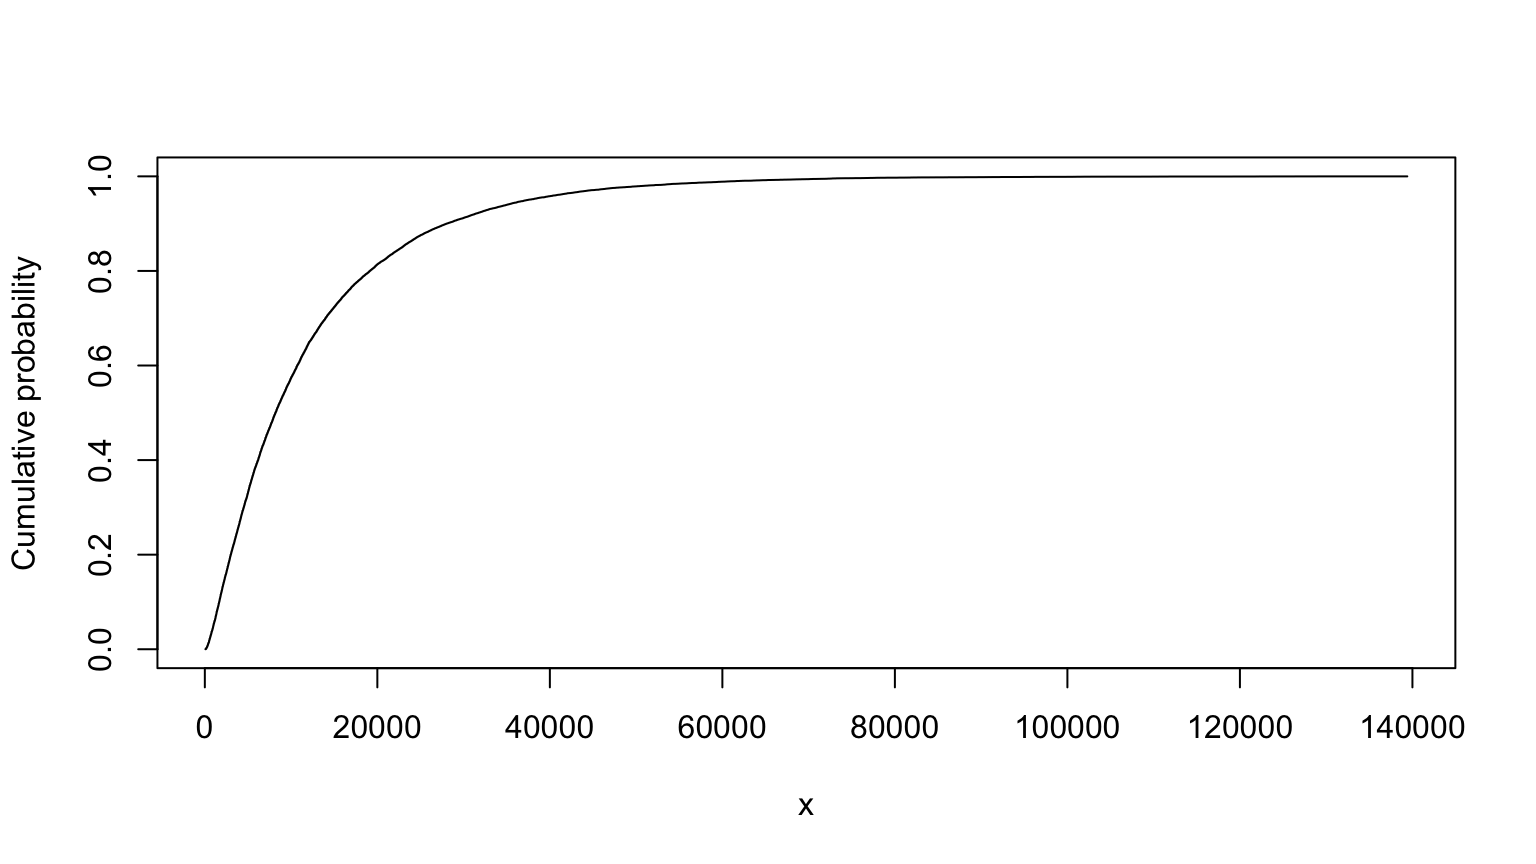
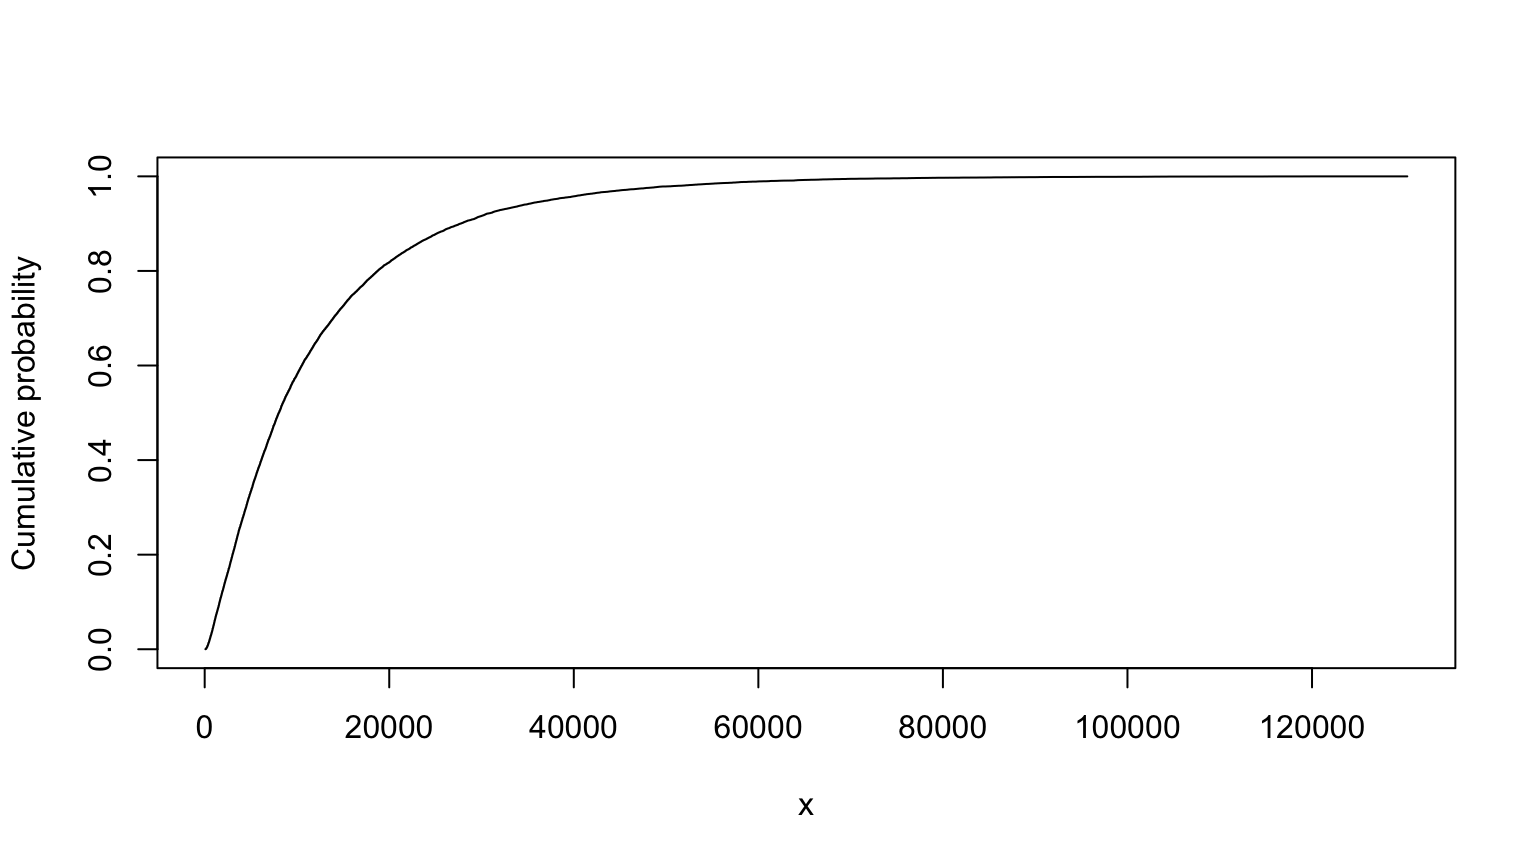
build_analysis_site() for release 1.0.11

diff --git a/docs/workshop.html b/docs/workshop.html
@@ -434,25 +434,25 @@ T &lt;- (n + BD * foc * Koc) * L / (K * i) # all variables assumed independent
 summary(T)</code></pre>
 <pre><code>## 
 ## Monte Carlo distribution summary
-##   Mean: 12992.28
-##   Variance: 268554684
-##   Std Deviation: 16387.64
-##   Width of interquartile range: 12578.9
-##   Width of overall range: 437572.4
+##   Mean: 12856.08
+##   Variance: 224938613
+##   Std Deviation: 14997.95
+##   Width of interquartile range: 12847.06
+##   Width of overall range: 243404.6
 ##   Order statistics
-##      Left (min) value: -1103.394
-##      1st percentile: 353.9357
-##      5th percentile: 946.8937
-##      25th percentile: 3637.04
-##      Median (50th%ile): 8076.956
-##      75th percentile: 16215.94
-##      95th percentile: 41413.62
-##      99th percentile: 76321.25
-##      Right (max) value: 436469
+##      Left (min) value: -0.9075293
+##      1st percentile: 333.434
+##      5th percentile: 929.1476
+##      25th percentile: 3668.287
+##      Median (50th%ile): 8087.811
+##      75th percentile: 16515.35
+##      95th percentile: 40016.31
+##      99th percentile: 72446.79
+##      Right (max) value: 243403.7
 ##   Replications: 20000</code></pre>
 <pre class="r"><code>T</code></pre>
 <p><img src="workshop_files/figure-html/T-1.png" width="768" /></p>
-<pre><code>## MC (min=-1103.39426011086, median=8076.95624377962, mean=12992.2810886096, max=436469.016547702)</code></pre>
+<pre><code>## MC (min=-0.90752931207862, median=8087.81078245944, mean=12856.0750485915, max=243403.730750865)</code></pre>
 <pre class="r"><code># nolint end</code></pre>
 <p>Truncated version, from slide 40:</p>
 <pre class="r"><code># nolint start
@@ -472,25 +472,25 @@ T &lt;- (n + BD * foc * Koc) * L / (K * i)
 summary(T)</code></pre>
 <pre><code>## 
 ## Monte Carlo distribution summary
-##   Mean: 12294.06
-##   Variance: 164528634
-##   Std Deviation: 12826.87
-##   Width of interquartile range: 12490.67
-##   Width of overall range: 139325.9
+##   Mean: 12164.79
+##   Variance: 162169908
+##   Std Deviation: 12734.59
+##   Width of interquartile range: 12359.34
+##   Width of overall range: 130234.8
 ##   Order statistics
-##      Left (min) value: 78.54209
-##      1st percentile: 374.6436
-##      5th percentile: 1005.389
-##      25th percentile: 3776.117
-##      Median (50th%ile): 8206.395
-##      75th percentile: 16266.79
-##      95th percentile: 37402.76
-##      99th percentile: 61618.05
-##      Right (max) value: 139404.4
+##      Left (min) value: 89.35449
+##      1st percentile: 377.3224
+##      5th percentile: 968.9486
+##      25th percentile: 3704.637
+##      Median (50th%ile): 8051.243
+##      75th percentile: 16063.97
+##      95th percentile: 37448.4
+##      99th percentile: 61220.33
+##      Right (max) value: 130324.2
 ##   Replications: 20000</code></pre>
 <pre class="r"><code>T</code></pre>
 <p><img src="workshop_files/figure-html/T_truncated-1.png" width="768" /></p>
-<pre><code>## MC (min=78.5420858433, median=8206.39467671615, mean=12294.0638114162, max=139404.402727442)</code></pre>
+<pre><code>## MC (min=89.3544908348222, median=8051.24325666704, mean=12164.7856200285, max=130324.16700688)</code></pre>
 <pre class="r"><code># nolint end</code></pre>
 <p>Maximum entropy version, from slide 70:</p>
 <p>T and Tind are pretty similar. In this case, the maximum entropy
@@ -509,25 +509,25 @@ Tind &lt;- (n + BD * foc * Koc) * L / (K * i)
 summary(Tind)</code></pre>
 <pre><code>## 
 ## Monte Carlo distribution summary
-##   Mean: 13879.56
-##   Variance: 227998536
-##   Std Deviation: 15099.62
-##   Width of interquartile range: 15118.18
-##   Width of overall range: 150650
+##   Mean: 14025.88
+##   Variance: 229087197
+##   Std Deviation: 15135.63
+##   Width of interquartile range: 15465.12
+##   Width of overall range: 132380.6
 ##   Order statistics
-##      Left (min) value: 75.9753
-##      1st percentile: 367.6406
-##      5th percentile: 994.2789
-##      25th percentile: 3677.792
-##      Median (50th%ile): 8415.554
-##      75th percentile: 18795.97
-##      95th percentile: 44861.31
-##      99th percentile: 70520.7
-##      Right (max) value: 150726
+##      Left (min) value: 86.44407
+##      1st percentile: 354.5949
+##      5th percentile: 979.9713
+##      25th percentile: 3693.612
+##      Median (50th%ile): 8547.073
+##      75th percentile: 19158.73
+##      95th percentile: 44657.71
+##      99th percentile: 70610.27
+##      Right (max) value: 132467.1
 ##   Replications: 20000</code></pre>
 <pre class="r"><code>Tind</code></pre>
 <p><img src="workshop_files/figure-html/Tind-1.png" width="768" /></p>
-<pre><code>## MC (min=75.9752983551103, median=8415.55369756421, mean=13879.5586222193, max=150726.01912386)</code></pre>
+<pre><code>## MC (min=86.4440687497689, median=8547.07323704723, mean=14025.8814955205, max=132467.060042648)</code></pre>
 <pre class="r"><code># nolint end</code></pre>
 </div>
 <div id="probability-bounds-analysis" class="section level1">

diff --git a/docs/news/index.html b/docs/news/index.html
@@ -17,7 +17,7 @@
       </button>
       <span class="navbar-brand">
         <a class="navbar-link" href="../index.html">workshop7</a>
-        <span class="version label label-default" data-toggle="tooltip" data-placement="bottom" title="">1.0.10</span>
+        <span class="version label label-default" data-toggle="tooltip" data-placement="bottom" title="">1.0.11</span>
       </span>
     </div>
 
@@ -60,6 +60,10 @@
       <small>Source: <a href="https://github.com/jabenninghoff/workshop7/blob/HEAD/NEWS.md" class="external-link"><code>NEWS.md</code></a></small>
     </div>
 
+    <div class="section level2">
+<h2 class="page-header" data-toc-text="1.0.11" id="workshop7-1011">workshop7 1.0.11<a class="anchor" aria-label="anchor" href="#workshop7-1011"></a></h2>
+<ul><li>Maintenance updates</li>
+</ul></div>
     <div class="section level2">
 <h2 class="page-header" data-toc-text="1.0.10" id="workshop7-1010">workshop7 1.0.10<a class="anchor" aria-label="anchor" href="#workshop7-1010"></a></h2>
 <ul><li>Maintenance updates</li>
@@ -121,7 +125,7 @@
 </div>
 
 <div class="pkgdown">
-  <p></p><p>Site built with <a href="https://pkgdown.r-lib.org/" class="external-link">pkgdown</a> 2.0.3.</p>
+  <p></p><p>Site built with <a href="https://pkgdown.r-lib.org/" class="external-link">pkgdown</a> 2.0.4.</p>
 </div>
 
       </footer></div>

diff --git a/docs/404.html b/docs/404.html
@@ -32,7 +32,7 @@
       </button>
       <span class="navbar-brand">
         <a class="navbar-link" href="https://jabenninghoff.github.io/workshop7/index.html">workshop7</a>
-        <span class="version label label-default" data-toggle="tooltip" data-placement="bottom" title="">1.0.10</span>
+        <span class="version label label-default" data-toggle="tooltip" data-placement="bottom" title="">1.0.11</span>
       </span>
     </div>
 
@@ -103,7 +103,7 @@ Content not found. Please use links in the navbar.
 
 <div class="pkgdown">
   <p></p>
-<p>Site built with <a href="https://pkgdown.r-lib.org/" class="external-link">pkgdown</a> 2.0.3.</p>
+<p>Site built with <a href="https://pkgdown.r-lib.org/" class="external-link">pkgdown</a> 2.0.4.</p>
 </div>
 
       </footer>

diff --git a/docs/authors.html b/docs/authors.html
@@ -17,7 +17,7 @@
       </button>
       <span class="navbar-brand">
         <a class="navbar-link" href="index.html">workshop7</a>
-        <span class="version label label-default" data-toggle="tooltip" data-placement="bottom" title="">1.0.10</span>
+        <span class="version label label-default" data-toggle="tooltip" data-placement="bottom" title="">1.0.11</span>
       </span>
     </div>
 
@@ -98,7 +98,7 @@ https://github.com/jabenninghoff/workshop7},
 </div>
 
 <div class="pkgdown">
-  <p></p><p>Site built with <a href="https://pkgdown.r-lib.org/" class="external-link">pkgdown</a> 2.0.3.</p>
+  <p></p><p>Site built with <a href="https://pkgdown.r-lib.org/" class="external-link">pkgdown</a> 2.0.4.</p>
 </div>
 
       </footer></div>

diff --git a/docs/TODO.html b/docs/TODO.html
@@ -17,7 +17,7 @@
       </button>
       <span class="navbar-brand">
         <a class="navbar-link" href="index.html">workshop7</a>
-        <span class="version label label-default" data-toggle="tooltip" data-placement="bottom" title="">1.0.10</span>
+        <span class="version label label-default" data-toggle="tooltip" data-placement="bottom" title="">1.0.11</span>
       </span>
     </div>
 
@@ -81,7 +81,7 @@ Add workshop lab notebook</li>
 </div>
 
 <div class="pkgdown">
-  <p></p><p>Site built with <a href="https://pkgdown.r-lib.org/" class="external-link">pkgdown</a> 2.0.3.</p>
+  <p></p><p>Site built with <a href="https://pkgdown.r-lib.org/" class="external-link">pkgdown</a> 2.0.4.</p>
 </div>
 
       </footer></div>

diff --git a/docs/LICENSE-text.html b/docs/LICENSE-text.html
@@ -17,7 +17,7 @@
       </button>
       <span class="navbar-brand">
         <a class="navbar-link" href="index.html">workshop7</a>
-        <span class="version label label-default" data-toggle="tooltip" data-placement="bottom" title="">1.0.10</span>
+        <span class="version label label-default" data-toggle="tooltip" data-placement="bottom" title="">1.0.11</span>
       </span>
     </div>
 
@@ -97,7 +97,7 @@ SOFTWARE.
 </div>
 
 <div class="pkgdown">
-  <p></p><p>Site built with <a href="https://pkgdown.r-lib.org/" class="external-link">pkgdown</a> 2.0.3.</p>
+  <p></p><p>Site built with <a href="https://pkgdown.r-lib.org/" class="external-link">pkgdown</a> 2.0.4.</p>
 </div>
 
       </footer></div>

diff --git a/docs/reference/index.html b/docs/reference/index.html
@@ -17,7 +17,7 @@
       </button>
       <span class="navbar-brand">
         <a class="navbar-link" href="../index.html">workshop7</a>
-        <span class="version label label-default" data-toggle="tooltip" data-placement="bottom" title="">1.0.10</span>
+        <span class="version label label-default" data-toggle="tooltip" data-placement="bottom" title="">1.0.11</span>
       </span>
     </div>
 
@@ -72,7 +72,7 @@
 </div>
 
 <div class="pkgdown">
-  <p></p><p>Site built with <a href="https://pkgdown.r-lib.org/" class="external-link">pkgdown</a> 2.0.3.</p>
+  <p></p><p>Site built with <a href="https://pkgdown.r-lib.org/" class="external-link">pkgdown</a> 2.0.4.</p>
 </div>
 
       </footer></div>

diff --git a/docs/reference/workshop7-package.html b/docs/reference/workshop7-package.html
@@ -17,7 +17,7 @@
       </button>
       <span class="navbar-brand">
         <a class="navbar-link" href="../index.html">workshop7</a>
-        <span class="version label label-default" data-toggle="tooltip" data-placement="bottom" title="">1.0.10</span>
+        <span class="version label label-default" data-toggle="tooltip" data-placement="bottom" title="">1.0.11</span>
       </span>
     </div>
 
@@ -90,7 +90,7 @@
 </div>
 
 <div class="pkgdown">
-  <p></p><p>Site built with <a href="https://pkgdown.r-lib.org/" class="external-link">pkgdown</a> 2.0.3.</p>
+  <p></p><p>Site built with <a href="https://pkgdown.r-lib.org/" class="external-link">pkgdown</a> 2.0.4.</p>
 </div>
 
       </footer></div>

diff --git a/docs/LICENSE.html b/docs/LICENSE.html
@@ -17,7 +17,7 @@
       </button>
       <span class="navbar-brand">
         <a class="navbar-link" href="index.html">workshop7</a>
-        <span class="version label label-default" data-toggle="tooltip" data-placement="bottom" title="">1.0.10</span>
+        <span class="version label label-default" data-toggle="tooltip" data-placement="bottom" title="">1.0.11</span>
       </span>
     </div>
 
@@ -82,7 +82,7 @@
 </div>
 
 <div class="pkgdown">
-  <p></p><p>Site built with <a href="https://pkgdown.r-lib.org/" class="external-link">pkgdown</a> 2.0.3.</p>
+  <p></p><p>Site built with <a href="https://pkgdown.r-lib.org/" class="external-link">pkgdown</a> 2.0.4.</p>
 </div>
 
       </footer></div>

diff --git a/docs/index.html b/docs/index.html
@@ -34,7 +34,7 @@
       </button>
       <span class="navbar-brand">
         <a class="navbar-link" href="index.html">workshop7</a>
-        <span class="version label label-default" data-toggle="tooltip" data-placement="bottom" title="">1.0.10</span>
+        <span class="version label label-default" data-toggle="tooltip" data-placement="bottom" title="">1.0.11</span>
       </span>
     </div>
 
@@ -178,7 +178,7 @@
 
 <div class="pkgdown">
   <p></p>
-<p>Site built with <a href="https://pkgdown.r-lib.org/" class="external-link">pkgdown</a> 2.0.3.</p>
+<p>Site built with <a href="https://pkgdown.r-lib.org/" class="external-link">pkgdown</a> 2.0.4.</p>
 </div>
 
       </footer>
